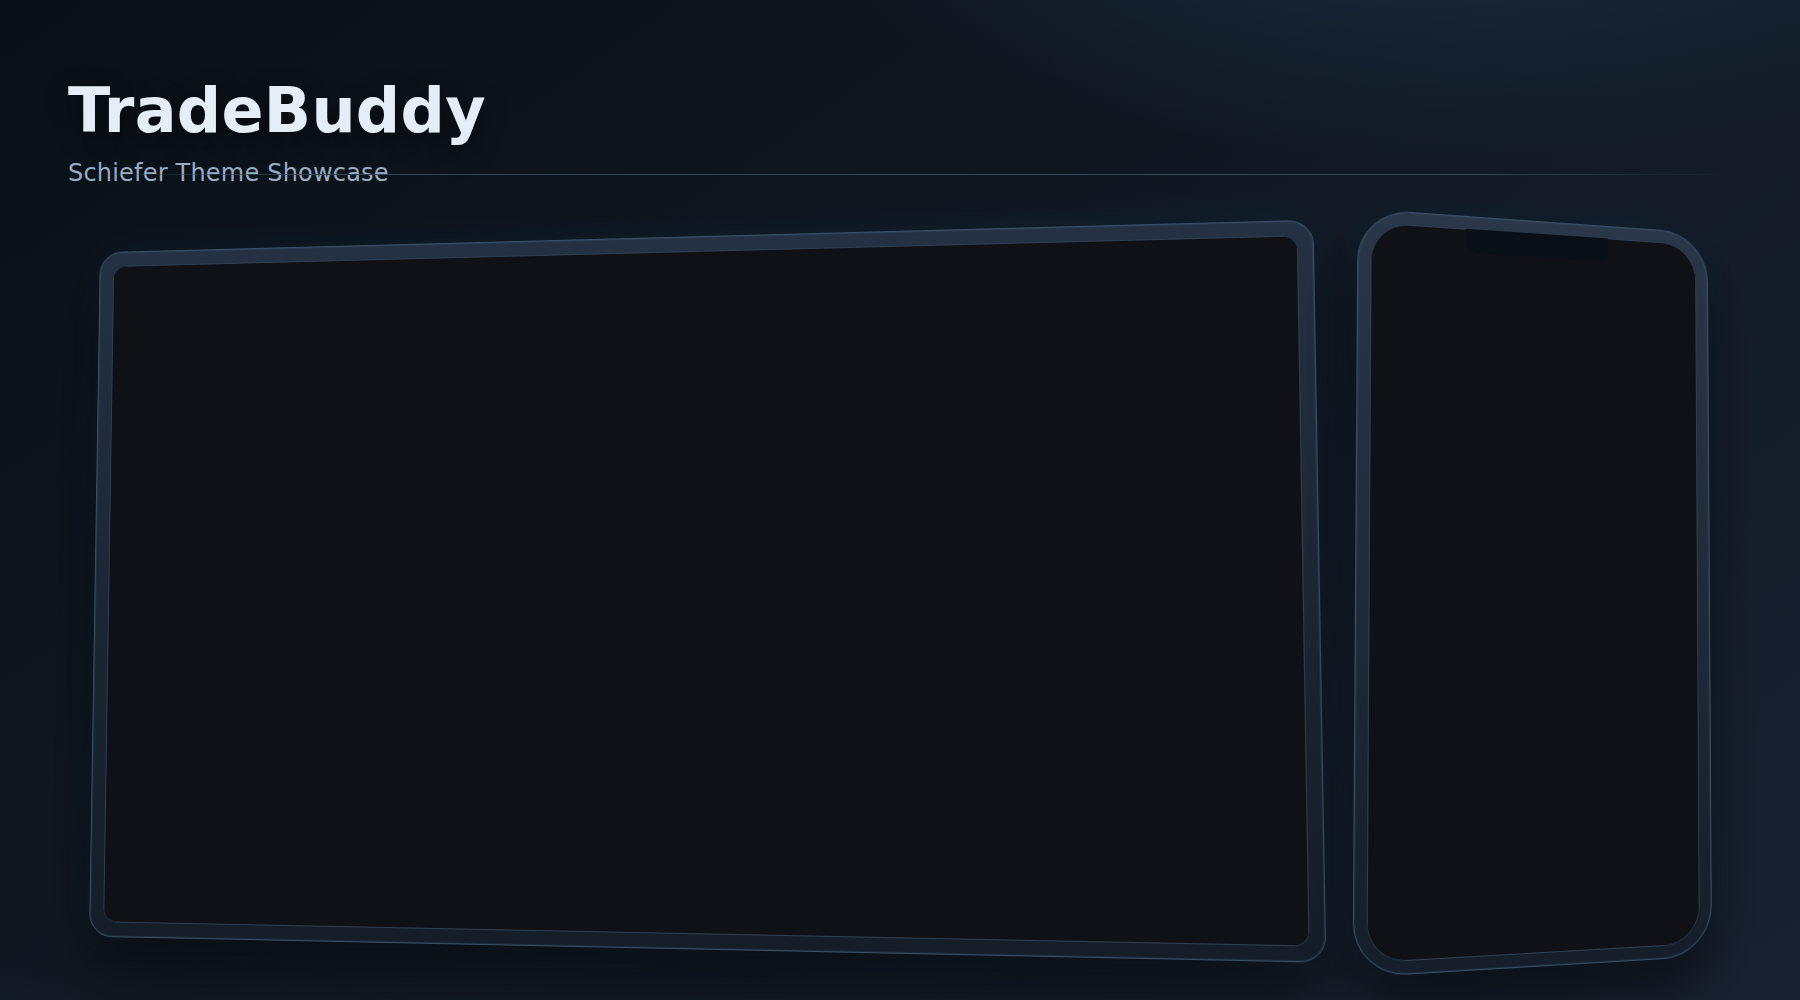
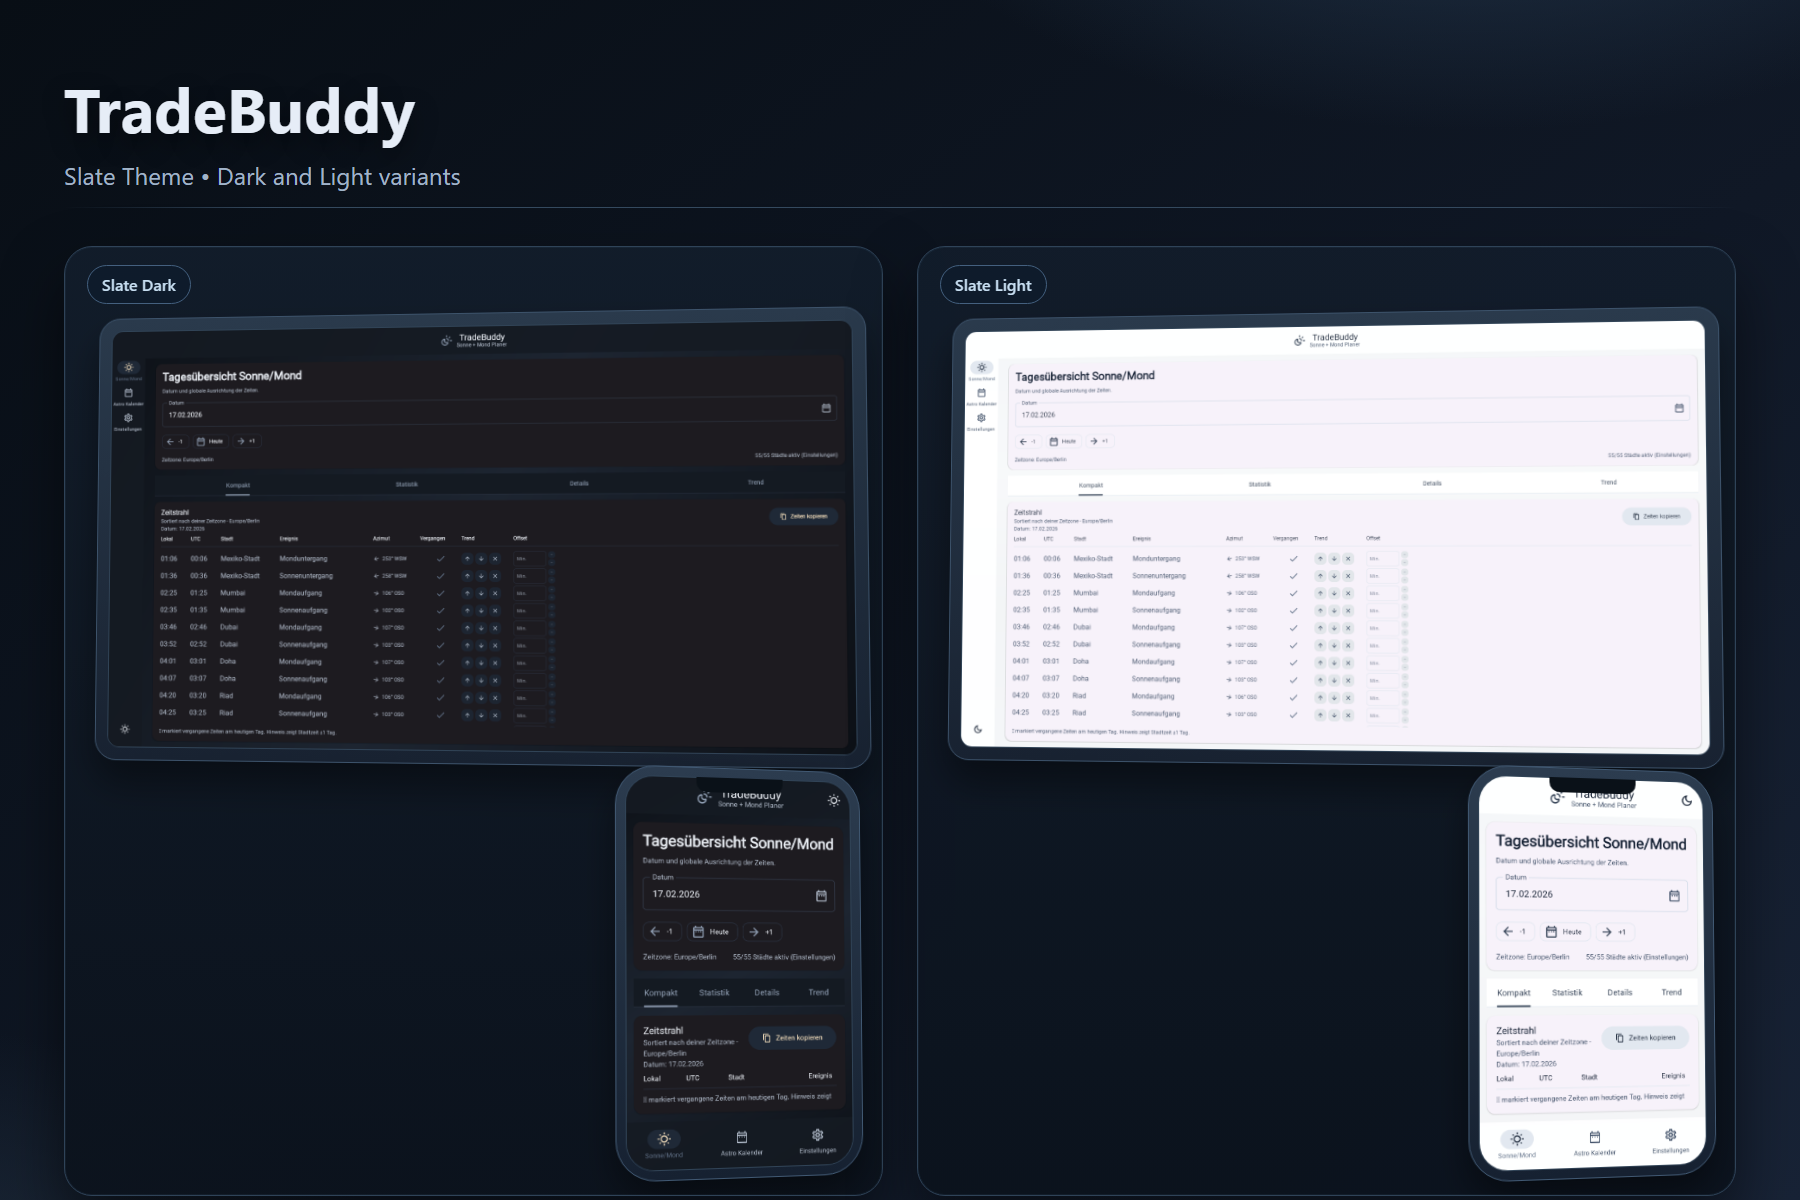
Automate slate dark/light screenshots and dual-theme showcase generation

Changed region(s): [[0.0311, 0.186, 0.9644, 1.0], [0.0311, 0.062, 0.28, 0.186]]

diff --git a/images/mockup-template.html b/images/mockup-template.html
@@ -3,138 +3,158 @@
 <head>
   <meta charset="utf-8" />
   <meta name="viewport" content="width=device-width, initial-scale=1" />
-  <title>TradeBuddy Showcase</title>
+  <title>TradeBuddy Slate Dark + Light Showcase</title>
   <style>
     :root {
-      --slate-950: #090f16;
-      --slate-900: #111a25;
-      --slate-850: #172130;
-      --slate-800: #1e2938;
-      --line: #2f3f53;
-      --glow: #1f5e8d;
+      --bg0: #080e15;
+      --bg1: #101826;
+      --bg2: #182336;
+      --line: #314457;
     }
     * { box-sizing: border-box; }
     html, body {
       margin: 0;
       width: 100%;
       height: 100%;
-      overflow: hidden;
       font-family: "Segoe UI", Inter, system-ui, sans-serif;
-      background: radial-gradient(1200px 600px at 80% -20%, #203349 0%, transparent 60%),
-        radial-gradient(700px 400px at -10% 120%, #1c2a3a 0%, transparent 65%),
-        linear-gradient(145deg, var(--slate-950), var(--slate-900) 54%, var(--slate-850));
+      background:
+        radial-gradient(1000px 520px at 82% -16%, #24384f 0%, transparent 62%),
+        radial-gradient(800px 460px at -6% 110%, #1e2b3b 0%, transparent 64%),
+        linear-gradient(145deg, var(--bg0), var(--bg1) 58%, var(--bg2));
+      color: #e6edf7;
+      overflow: hidden;
     }
     .canvas {
       width: 1800px;
-      height: 1000px;
-      padding: 74px 68px;
+      height: 1200px;
+      padding: 66px 64px 56px;
       position: relative;
     }
-    .top-rule {
-      position: absolute;
-      left: 68px;
-      right: 68px;
-      top: 174px;
-      height: 1px;
-      background: linear-gradient(90deg, transparent, #314558 15%, #314558 85%, transparent);
-    }
-    .brand {
+    h1 {
       margin: 0;
-      color: #e5edf7;
-      font-weight: 760;
       font-size: 62px;
-      letter-spacing: 0.3px;
-      text-shadow: 0 8px 26px rgba(0, 0, 0, 0.45);
+      letter-spacing: 0.2px;
+      font-weight: 760;
+      text-shadow: 0 10px 26px rgba(0,0,0,.45);
     }
     .sub {
-      margin-top: 12px;
-      color: #99acc2;
+      margin-top: 10px;
+      color: #a1b4c8;
       font-size: 24px;
-      letter-spacing: 0.2px;
+    }
+    .rule {
+      height: 1px;
+      margin-top: 16px;
+      background: linear-gradient(90deg, transparent, #354a5f 12%, #354a5f 88%, transparent);
     }
     .grid {
-      position: absolute;
-      left: 68px;
-      right: 68px;
-      bottom: 56px;
-      top: 216px;
+      margin-top: 38px;
       display: grid;
-      grid-template-columns: minmax(0, 1fr) 388px;
-      gap: 48px;
-      align-items: center;
+      grid-template-columns: 1fr 1fr;
+      gap: 34px;
+      height: 950px;
+    }
+    .scene {
+      border-radius: 28px;
+      border: 1px solid #2f4358;
+      background: linear-gradient(180deg, rgba(18,29,43,.92), rgba(11,18,28,.92));
+      padding: 22px;
+      box-shadow:
+        0 30px 60px rgba(0, 0, 0, 0.5),
+        0 0 0 1px rgba(102, 150, 192, 0.08) inset;
+      position: relative;
+      overflow: hidden;
+    }
+    .scene-title {
+      position: absolute;
+      top: 18px;
+      left: 22px;
+      padding: 8px 14px;
+      border-radius: 999px;
+      font-size: 16px;
+      font-weight: 600;
+      border: 1px solid #44607f;
+      background: rgba(14, 28, 44, 0.72);
+      color: #c7def1;
+      z-index: 4;
     }
     .desktop {
-      padding: 14px;
-      border-radius: 24px;
-      background: linear-gradient(180deg, #233142, #141d28);
-      border: 1px solid #3b4e66;
-      box-shadow:
-        0 32px 60px rgba(0, 0, 0, 0.55),
-        0 0 0 1px rgba(84, 137, 185, 0.14) inset,
-        0 0 40px rgba(31, 94, 141, 0.16);
-      transform: perspective(1300px) rotateX(2deg) rotateY(-5deg);
+      margin-top: 42px;
+      padding: 12px;
+      border-radius: 22px;
+      background: linear-gradient(180deg, #2a3a4c, #182231);
+      border: 1px solid #3d536b;
+      box-shadow: 0 22px 38px rgba(0,0,0,.42);
+      transform: perspective(1100px) rotateX(2deg) rotateY(-4deg);
       transform-origin: center;
     }
-    .desktop-screen {
-      border-radius: 14px;
-      overflow: hidden;
+    .desktop img {
+      width: 100%;
+      display: block;
+      border-radius: 12px;
       border: 1px solid var(--line);
-      background: #0a1118;
     }
-    .desktop-screen img { width: 100%; display: block; }
-
     .phone {
-      width: 360px;
-      margin: 0 auto;
-      border-radius: 52px;
-      padding: 12px;
-      background: linear-gradient(180deg, #2a3748, #151e2a);
-      border: 1px solid #3b4d64;
-      box-shadow:
-        0 30px 56px rgba(0, 0, 0, 0.55),
-        0 0 0 1px rgba(84, 137, 185, 0.12) inset,
-        0 0 36px rgba(31, 94, 141, 0.14);
-      transform: perspective(1000px) rotateX(2deg) rotateY(10deg);
-      position: relative;
+      position: absolute;
+      right: 16px;
+      bottom: 18px;
+      width: 250px;
+      border-radius: 40px;
+      padding: 9px;
+      background: linear-gradient(180deg, #2c3c4f, #162131);
+      border: 1px solid #415973;
+      box-shadow: 0 18px 36px rgba(0,0,0,.45);
+      transform: perspective(1000px) rotateY(10deg) rotateX(2deg);
+      z-index: 3;
     }
     .phone-notch {
       position: absolute;
-      top: 12px;
+      top: 9px;
       left: 50%;
       transform: translateX(-50%);
-      width: 146px;
-      height: 24px;
-      border-bottom-left-radius: 13px;
-      border-bottom-right-radius: 13px;
-      background: #090f16;
+      width: 88px;
+      height: 15px;
+      border-bottom-left-radius: 10px;
+      border-bottom-right-radius: 10px;
+      background: #0a1118;
       z-index: 2;
     }
-    .phone-screen {
-      border-radius: 38px;
-      overflow: hidden;
+    .phone img {
+      width: 100%;
+      display: block;
+      border-radius: 28px;
       border: 1px solid var(--line);
-      background: #0a1118;
     }
-    .phone-screen img { width: 100%; display: block; }
   </style>
 </head>
 <body>
   <main class="canvas">
-    <h1 class="brand">TradeBuddy</h1>
-    <div class="sub">Schiefer Theme Showcase</div>
-    <div class="top-rule"></div>
+    <h1>TradeBuddy</h1>
+    <div class="sub">Slate Theme • Dark and Light variants</div>
+    <div class="rule"></div>
+
     <section class="grid">
-      <div class="desktop">
-        <div class="desktop-screen">
-          <img src="./screenshot-web-desktop.png" alt="Desktop screenshot" />
+      <article class="scene">
+        <div class="scene-title">Slate Dark</div>
+        <div class="desktop">
+          <img src="./screenshot-web-desktop-dark.png" alt="Slate dark desktop screenshot" />
         </div>
-      </div>
-      <div class="phone">
-        <div class="phone-notch"></div>
-        <div class="phone-screen">
-          <img src="./screenshot-web-mobile.png" alt="Mobile screenshot" />
+        <div class="phone">
+          <div class="phone-notch"></div>
+          <img src="./screenshot-web-mobile-dark.png" alt="Slate dark mobile screenshot" />
         </div>
-      </div>
+      </article>
+
+      <article class="scene">
+        <div class="scene-title">Slate Light</div>
+        <div class="desktop">
+          <img src="./screenshot-web-desktop-light.png" alt="Slate light desktop screenshot" />
+        </div>
+        <div class="phone">
+          <div class="phone-notch"></div>
+          <img src="./screenshot-web-mobile-light.png" alt="Slate light mobile screenshot" />
+        </div>
+      </article>
     </section>
   </main>
 </body>
